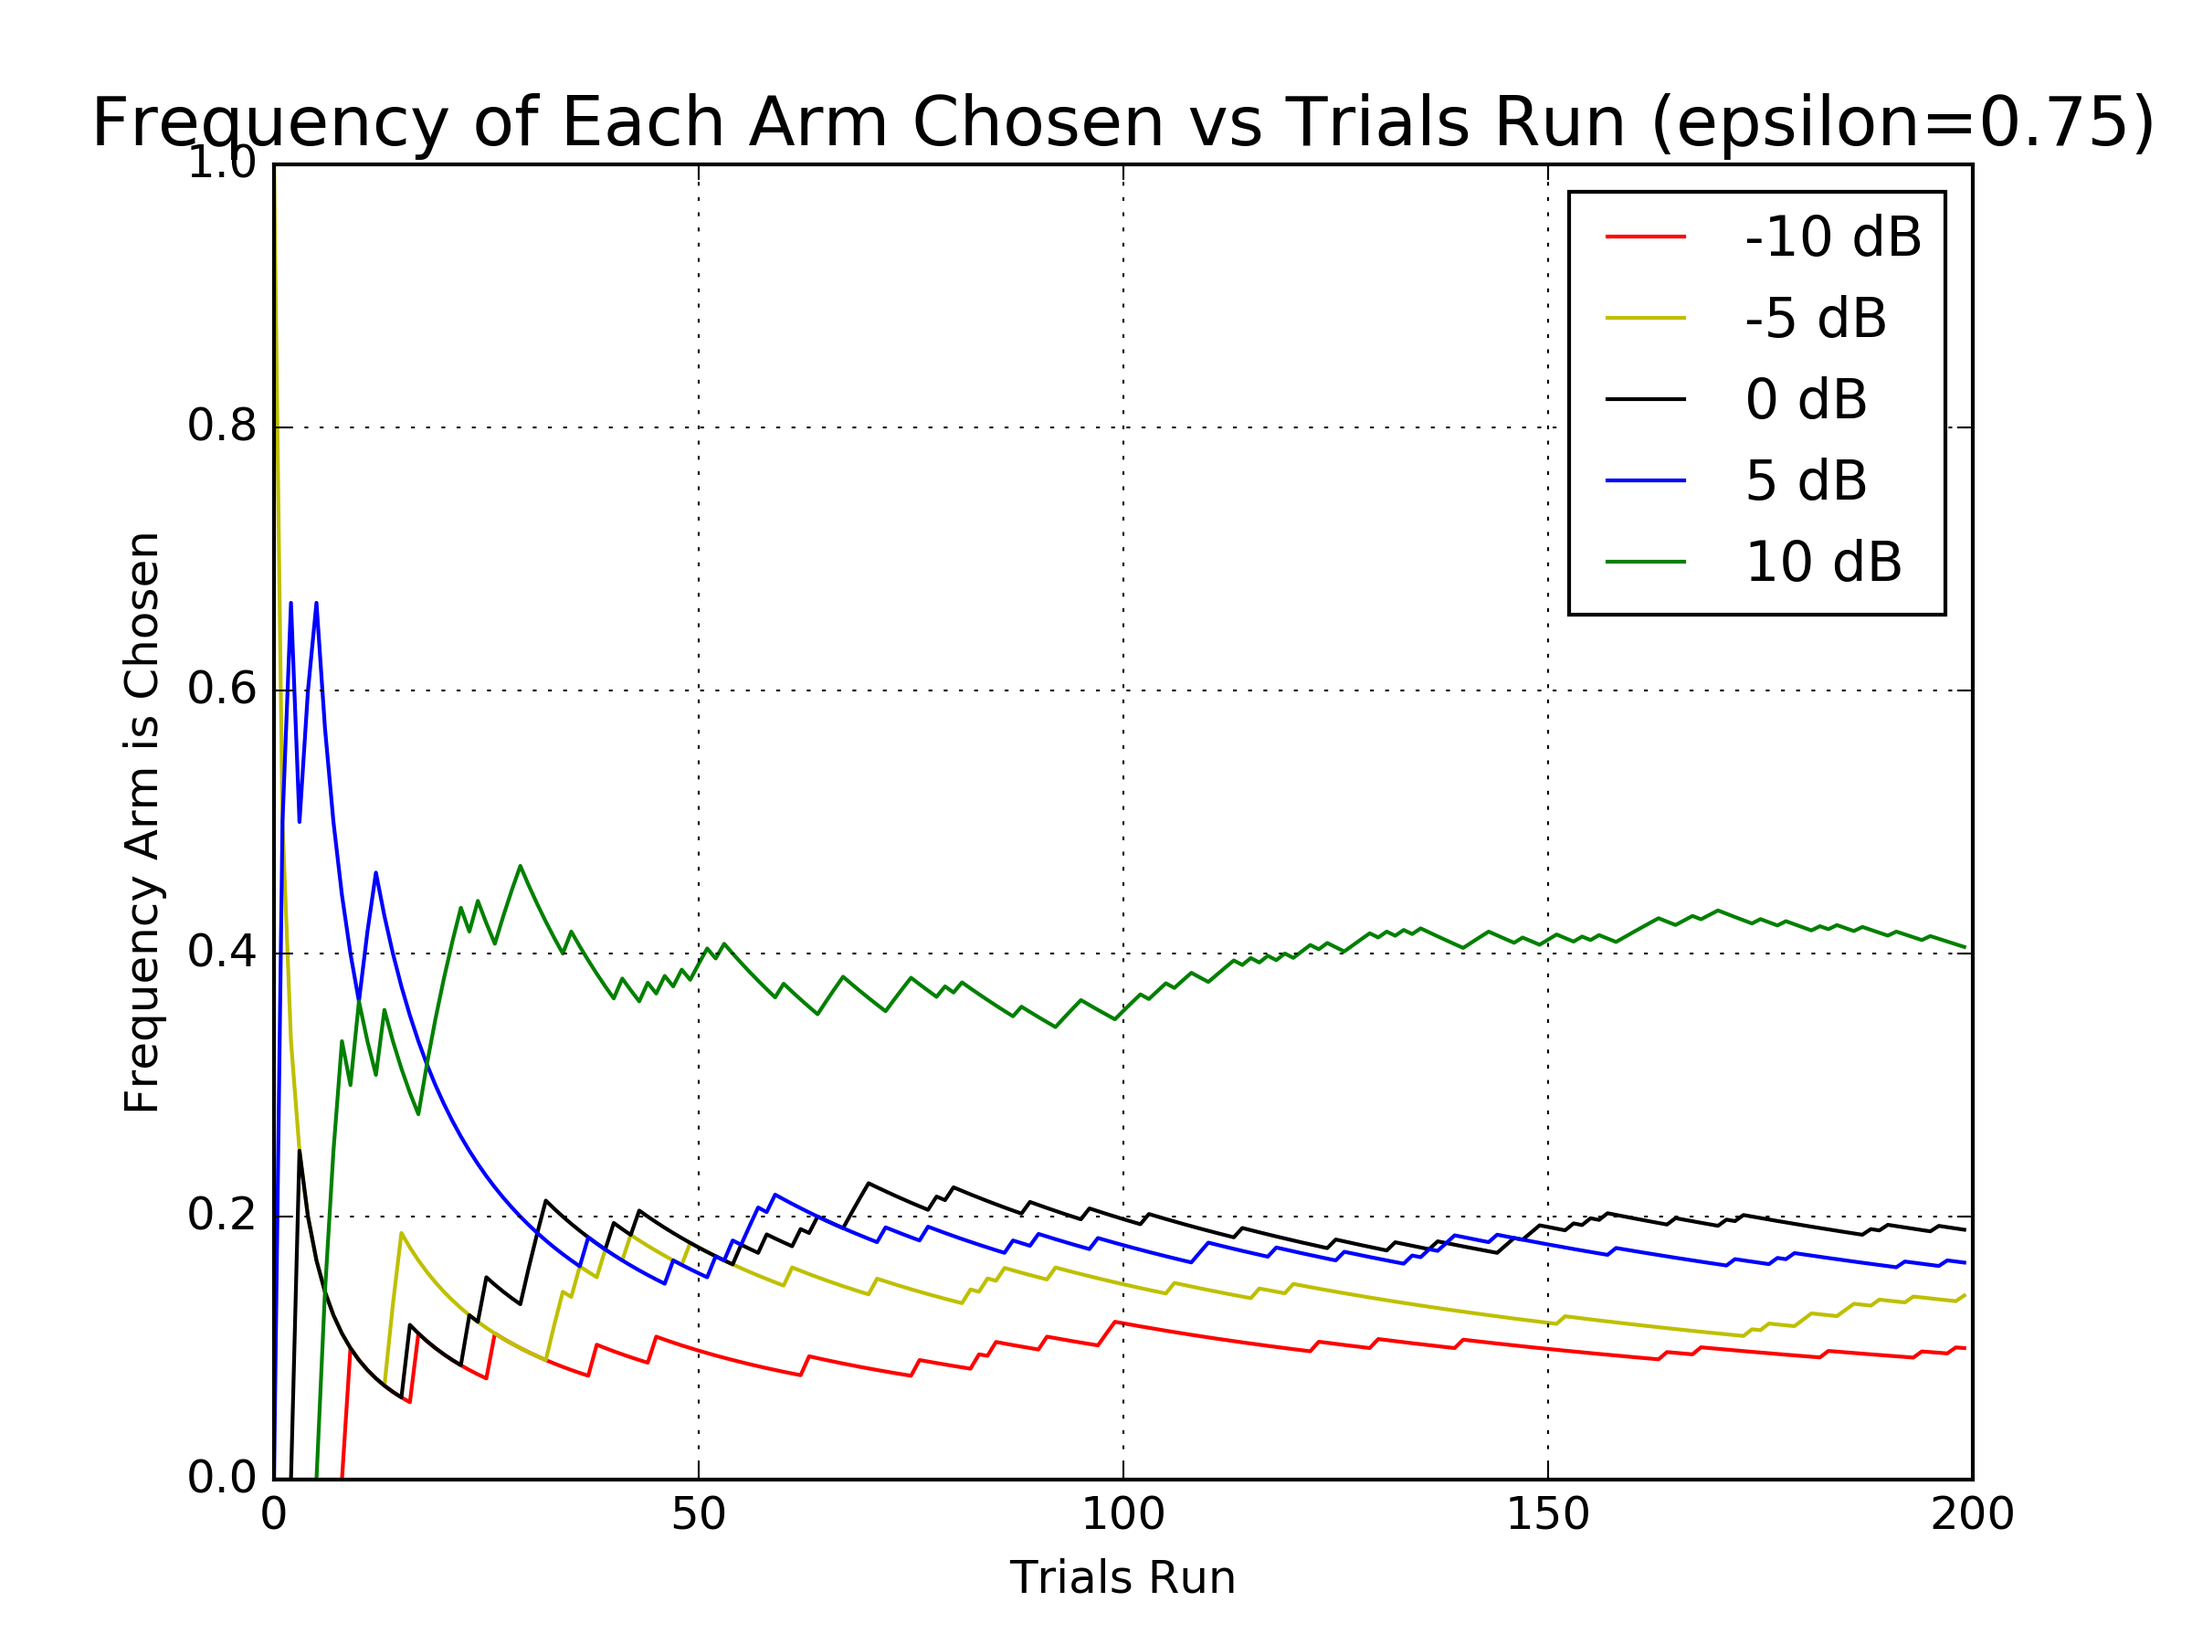
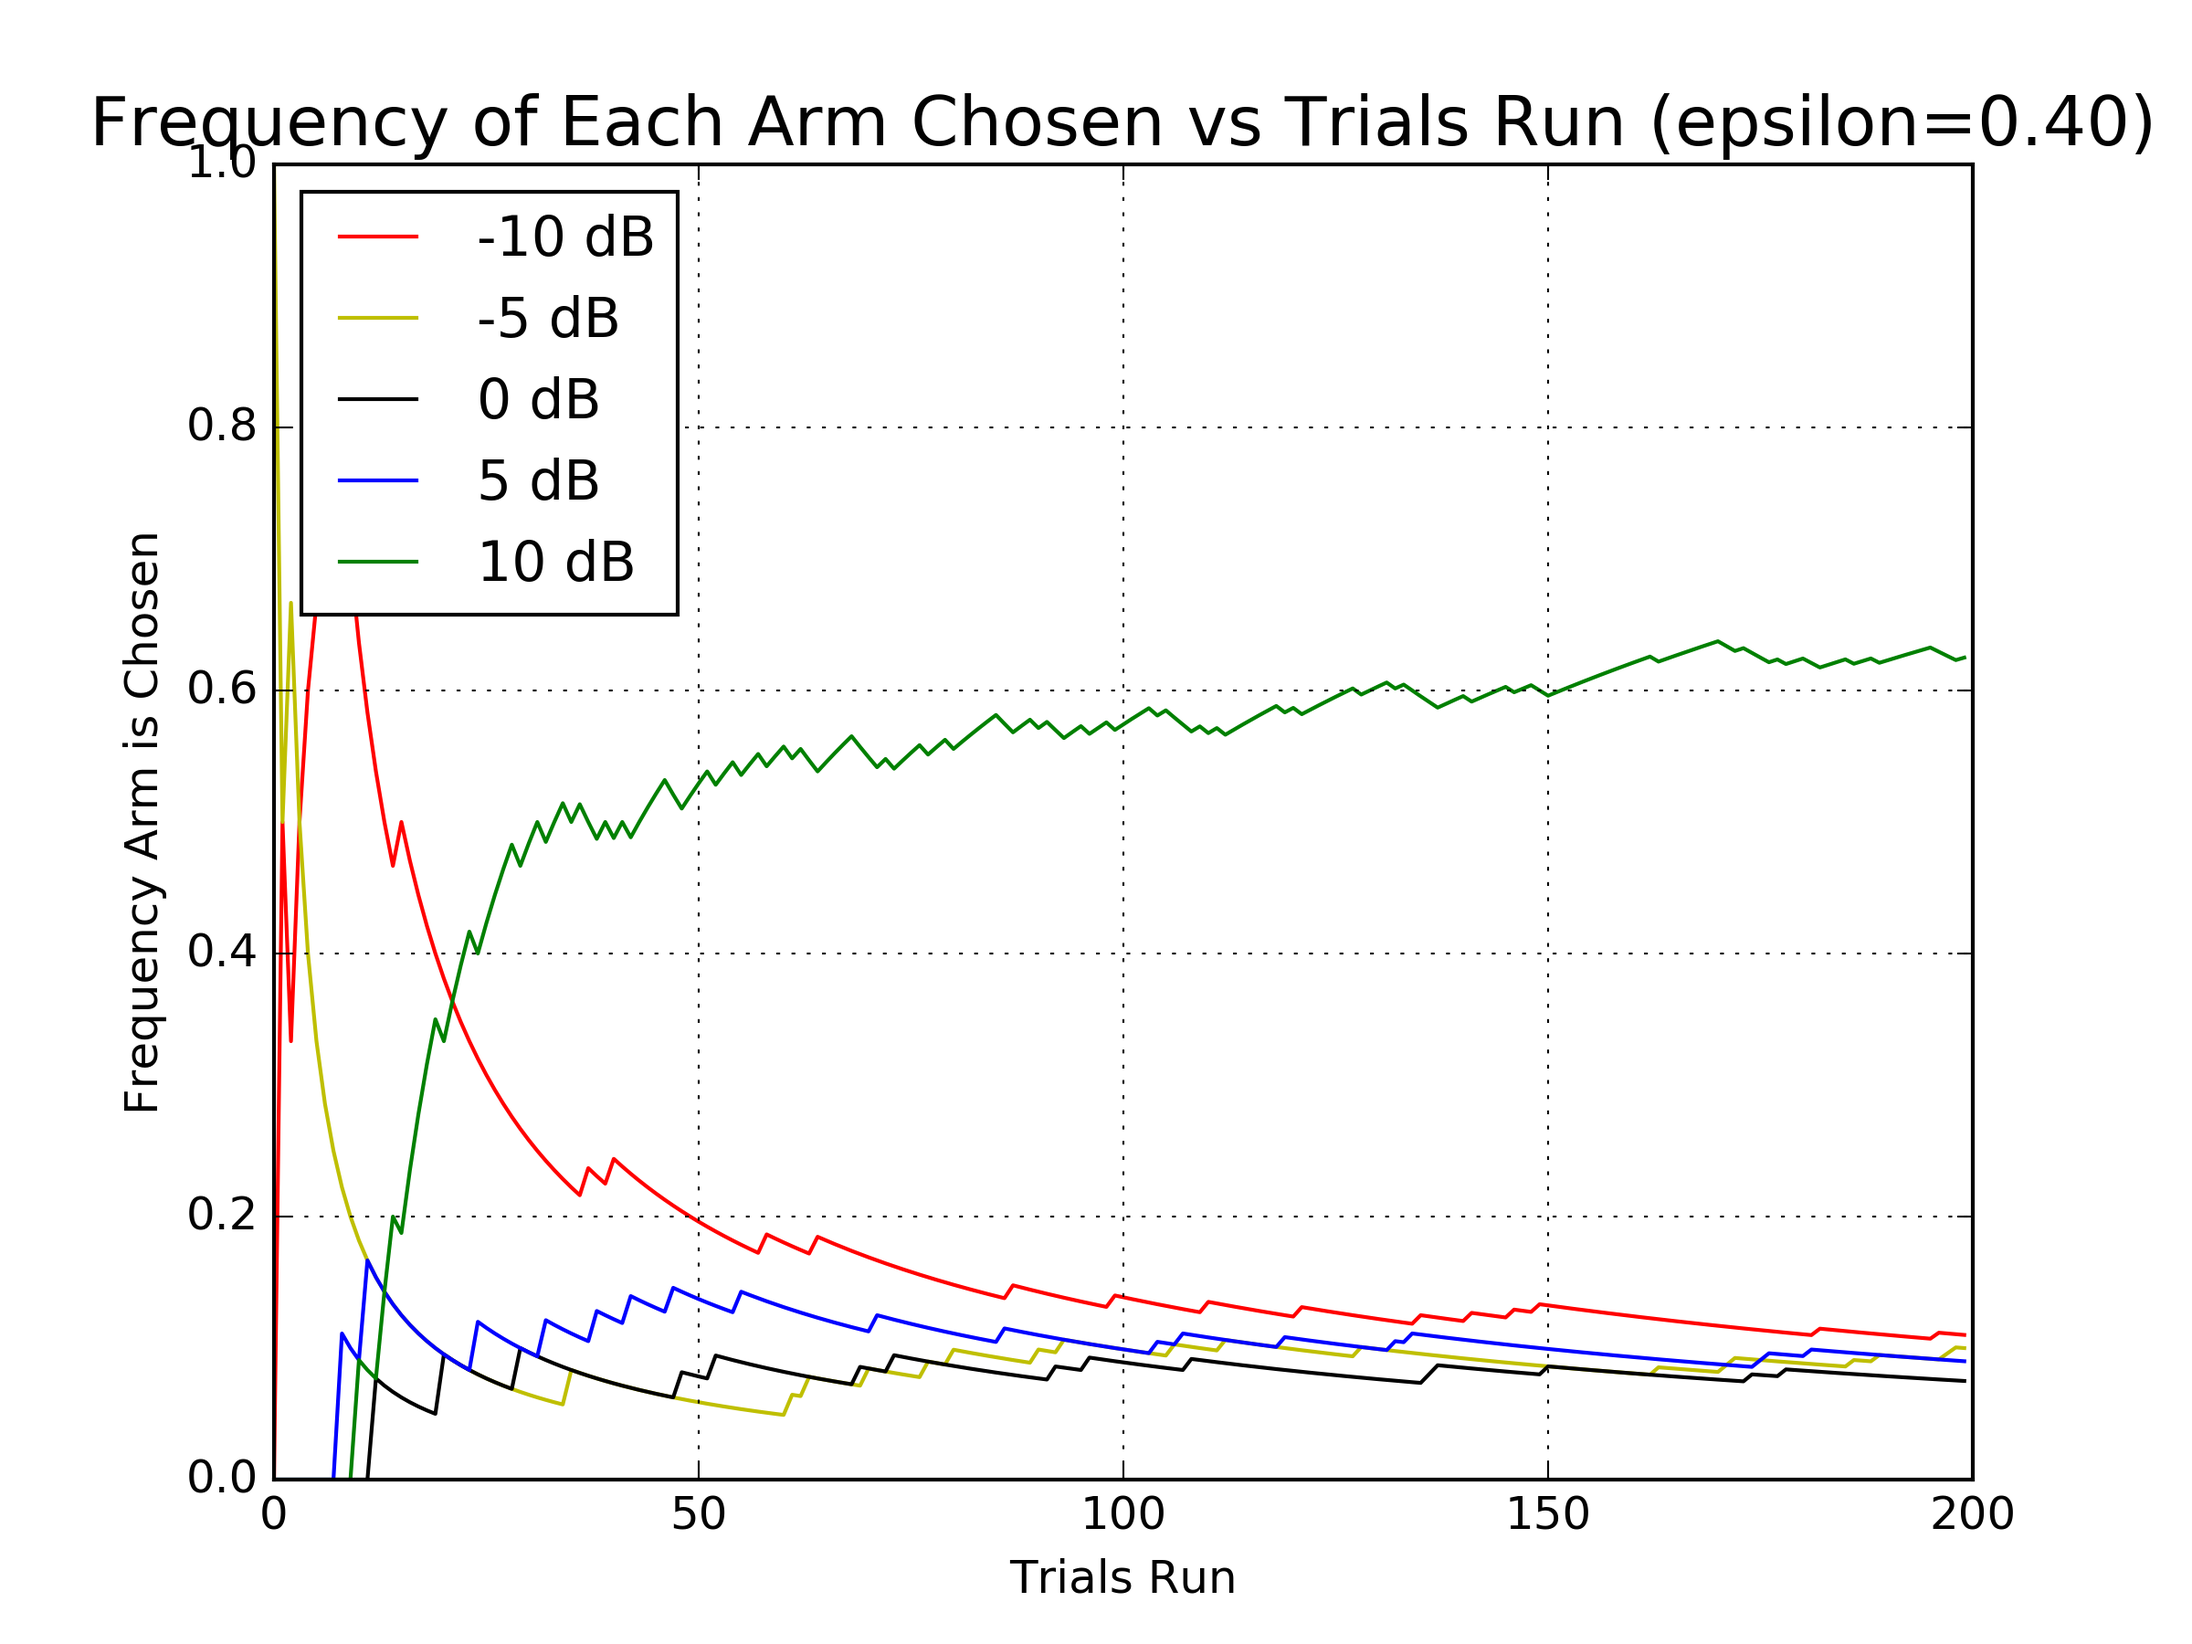
generated more pickaction graphs

diff --git a/examples/eve_re_learn_testbed_noqt.py b/examples/eve_re_learn_testbed_noqt.py
@@ -1,0 +1,113 @@
+#!/usr/bin/env python2
+# -*- coding: utf-8 -*-
+##################################################
+# GNU Radio Python Flow Graph
+# Title: Eve Re Learn Testbed Noqt
+# Generated: Tue Feb  6 22:26:35 2018
+##################################################
+
+from gnuradio import analog
+from gnuradio import blocks
+from gnuradio import digital
+from gnuradio import eng_notation
+from gnuradio import gr
+from gnuradio.eng_option import eng_option
+from gnuradio.filter import firdes
+from optparse import OptionParser
+import numpy
+
+
+class eve_re_learn_testbed_noqt(gr.top_block):
+
+    def __init__(self):
+        gr.top_block.__init__(self, "Eve Re Learn Testbed Noqt")
+
+        ##################################################
+        # Variables
+        ##################################################
+        self.snr_db = snr_db = 0
+        self.samp_rate = samp_rate = 32000
+        self.max_items = max_items = 80
+
+        self.const = const = digital.constellation_calcdist(([-1-1j, -1+1j, 1+1j, 1-1j]), ([0, 1, 3, 2]), 4, 1).base()
+
+
+        ##################################################
+        # Blocks
+        ##################################################
+        self.digital_constellation_decoder_cb_0 = digital.constellation_decoder_cb(const)
+        self.digital_chunks_to_symbols_xx_0 = digital.chunks_to_symbols_bc((const.points()), 1)
+        self.blocks_vector_sink_x_1 = blocks.vector_sink_b(1)
+        self.blocks_vector_sink_x_0 = blocks.vector_sink_b(1)
+        self.blocks_throttle_0 = blocks.throttle(gr.sizeof_gr_complex*1, samp_rate,True)
+        self.blocks_repack_bits_bb_1 = blocks.repack_bits_bb(1, 8, "", False, gr.GR_LSB_FIRST)
+        self.blocks_repack_bits_bb_0_0 = blocks.repack_bits_bb(1, const.bits_per_symbol(), "", False, gr.GR_LSB_FIRST)
+        self.blocks_repack_bits_bb_0 = blocks.repack_bits_bb(const.bits_per_symbol(), 8, "", False, gr.GR_LSB_FIRST)
+        self.blocks_head_0_0 = blocks.head(gr.sizeof_char*1, max_items)
+        self.blocks_head_0 = blocks.head(gr.sizeof_char*1, max_items)
+        self.blocks_add_xx_0 = blocks.add_vcc(1)
+        self.analog_random_source_x_0 = blocks.vector_source_b(map(int, numpy.random.randint(0, 2, 1000000)), True)
+        self.analog_fastnoise_source_x_0_0 = analog.fastnoise_source_c(analog.GR_GAUSSIAN, 10**(-snr_db/20.0), 0, 2**16)
+        self.analog_fastnoise_source_x_0 = analog.fastnoise_source_c(analog.GR_GAUSSIAN, 10**(-snr_db/20.0), 0, 2**16)
+
+        ##################################################
+        # Connections
+        ##################################################
+        self.connect((self.analog_fastnoise_source_x_0, 0), (self.blocks_add_xx_0, 0))
+        self.connect((self.analog_fastnoise_source_x_0_0, 0), (self.blocks_add_xx_0, 2))
+        self.connect((self.analog_random_source_x_0, 0), (self.blocks_repack_bits_bb_0_0, 0))
+        self.connect((self.analog_random_source_x_0, 0), (self.blocks_repack_bits_bb_1, 0))
+        self.connect((self.blocks_add_xx_0, 0), (self.digital_constellation_decoder_cb_0, 0))
+        self.connect((self.blocks_head_0, 0), (self.blocks_vector_sink_x_0, 0))
+        self.connect((self.blocks_head_0_0, 0), (self.blocks_vector_sink_x_1, 0))
+        self.connect((self.blocks_repack_bits_bb_0, 0), (self.blocks_head_0, 0))
+        self.connect((self.blocks_repack_bits_bb_0_0, 0), (self.digital_chunks_to_symbols_xx_0, 0))
+        self.connect((self.blocks_repack_bits_bb_1, 0), (self.blocks_head_0_0, 0))
+        self.connect((self.blocks_throttle_0, 0), (self.blocks_add_xx_0, 1))
+        self.connect((self.digital_chunks_to_symbols_xx_0, 0), (self.blocks_throttle_0, 0))
+        self.connect((self.digital_constellation_decoder_cb_0, 0), (self.blocks_repack_bits_bb_0, 0))
+
+    def get_snr_db(self):
+        return self.snr_db
+
+    def set_snr_db(self, snr_db):
+        self.snr_db = snr_db
+        self.analog_fastnoise_source_x_0_0.set_amplitude(10**(-self.snr_db/20.0))
+        self.analog_fastnoise_source_x_0.set_amplitude(10**(-self.snr_db/20.0))
+
+    def get_samp_rate(self):
+        return self.samp_rate
+
+    def set_samp_rate(self, samp_rate):
+        self.samp_rate = samp_rate
+        self.blocks_throttle_0.set_sample_rate(self.samp_rate)
+
+    def get_max_items(self):
+        return self.max_items
+
+    def set_max_items(self, max_items):
+        self.max_items = max_items
+        self.blocks_head_0_0.set_length(self.max_items)
+        self.blocks_head_0.set_length(self.max_items)
+
+    def get_const(self):
+        return self.const
+
+    def set_const(self, const):
+        self.const = const
+
+
+def main(top_block_cls=eve_re_learn_testbed_noqt, options=None):
+
+    tb = top_block_cls()
+    tb.start()
+    try:
+        raw_input('Press Enter to quit: ')
+    except EOFError:
+        pass
+    tb.stop()
+    tb.wait()
+
+
+if __name__ == '__main__':
+    main()

diff --git a/examples/eve_re_learn_testbed.py b/examples/eve_re_learn_testbed.py
@@ -216,8 +216,8 @@ class eve_learning_model():
 
             #print(self.historical_average_rewards)
 
-        self.graph_averages_overtime()
-        #self.graph_pickaction_choices_overtime()
+        #self.graph_averages_overtime()
+        self.graph_pickaction_choices_overtime()
 
     # function instantiates top block and runs single step
     def run_trial(self):
@@ -358,7 +358,7 @@ class eve_learning_model():
         for index, percentage in enumerate(pickaction_transposed):
             plt.plot(x_list, percentage, color_codings[index], label=(str(self.eve_noise_arms[index])+ " dB"))
 
-        plt.legend()
+        plt.legend(loc=2)
 
         plt.savefig('./plots/pickaction_vs_trials.png', format='png', dpi=300)
         #plt.show()
@@ -386,7 +386,7 @@ if __name__ == '__main__':
     print("average_rewards: " + str(average_rewards))
 
 
-    model = eve_learning_model(0.75, eve_noise_arms, arm_counts, average_rewards, 8)
+    model = eve_learning_model(0.40, eve_noise_arms, arm_counts, average_rewards, 8)
     model.train_model(200)
 
     #crude way of ending program
